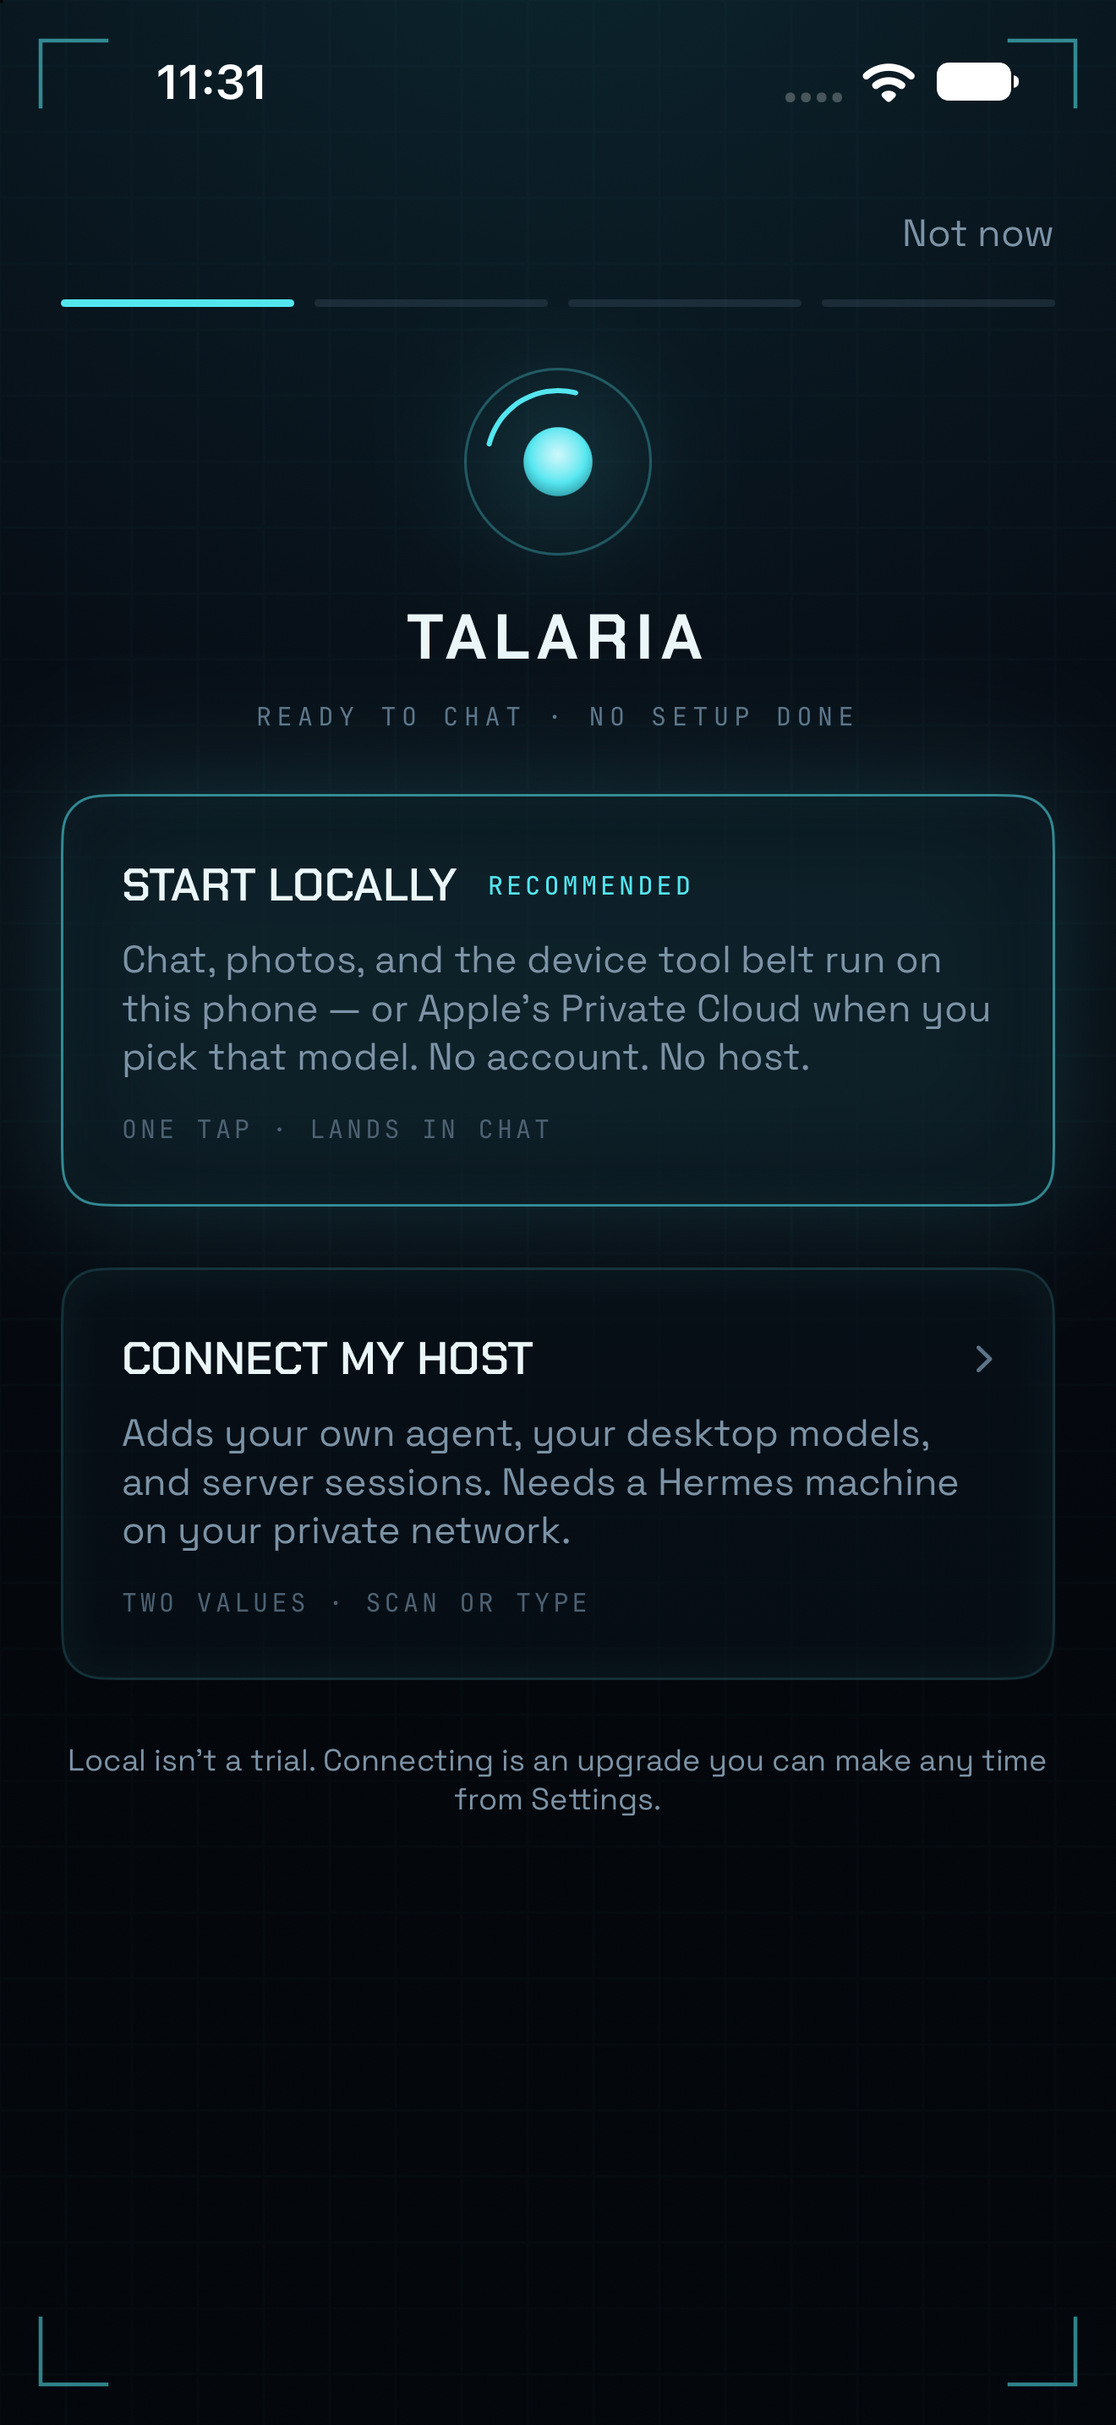
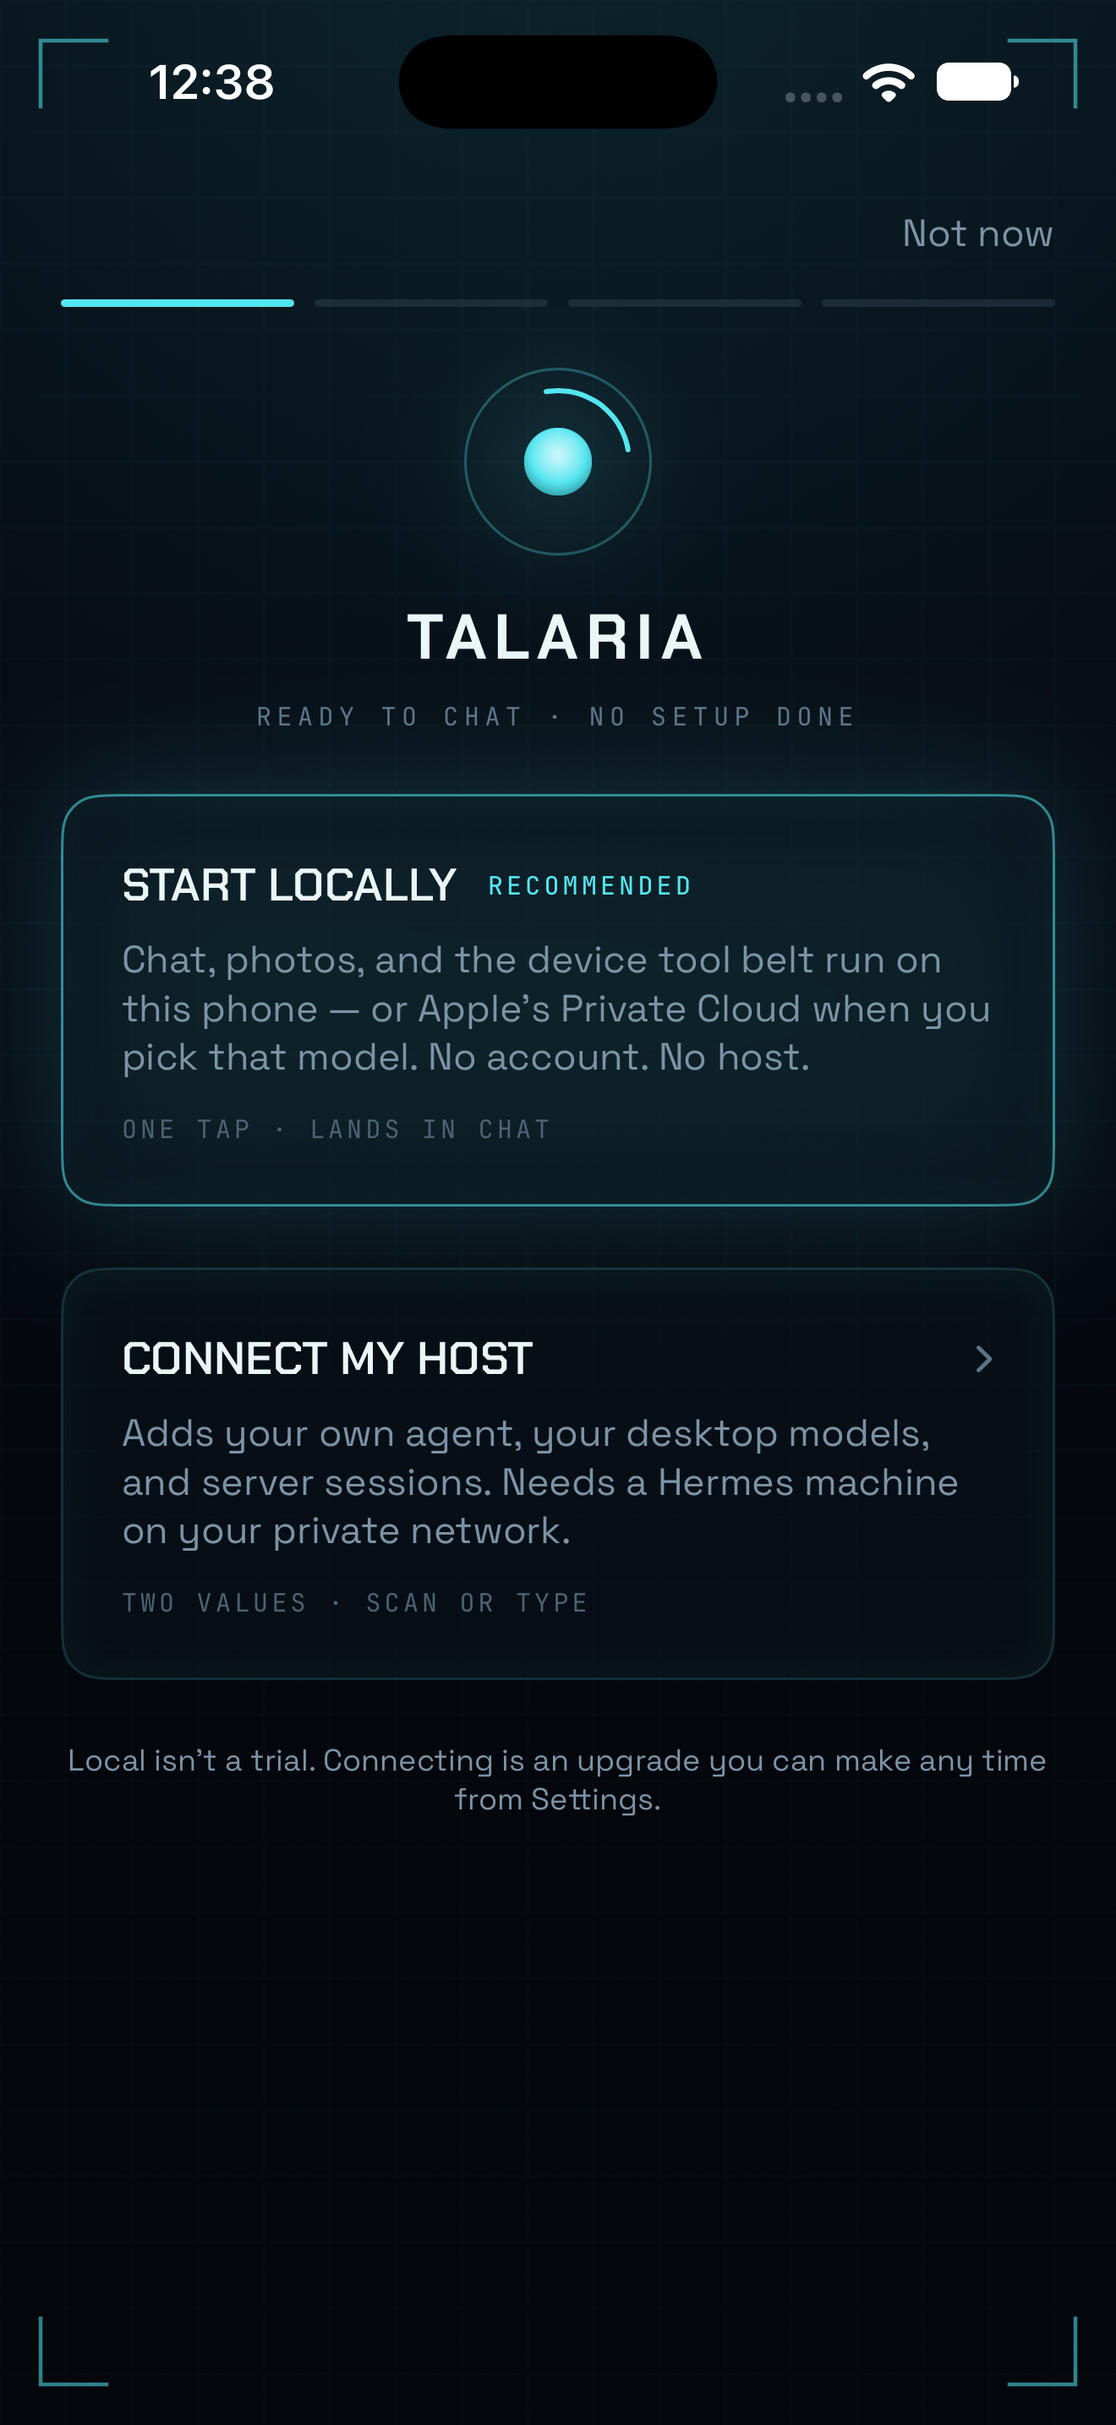
445: CLOSED — gate PASS (3430/281 + 18), PR #449 → 3ba4d00a, store build 3331 staged and verified, the three rulings seen on a fresh Release sim install; store frames re-captured; runbook repointed at 3331; 443 header pointer updated

diff --git a/OPEN_ITEMS.md b/OPEN_ITEMS.md
@@ -13803,7 +13803,7 @@ First-launch/license complete (`xcodebuild -checkFirstLaunchStatus` exit 0 — n
 
 > **✅ CLOSED 2026-09-10 (Owen, morning): *"it was tailscale again. It had crashed on the phone. restarted it and the plugin shows active for both servers again."*** So the symptom was the PHONE's tailnet, not either host: with Tailscale down, the About screen's Plugin Link row shows its `hostUnreachable` state (269-A-C's closed vocabulary — a distinct label, never "missing"), and it read as the plugin gone. Both gateways had the plugin loaded throughout (the probe block above). **Same cause as #425's 2026-09-04 confirmation** (*"Tailscale had crashed on the phone… brought every session back"*) — the second Tailscale-on-phone crash in six days to present as a Talaria fault. Nothing to fix in the app or on either host; the read-only diagnosis recipe above stays the first move whenever "the plugin is gone" is reported, and "is Tailscale up on the phone?" is now the first question before it. Not filed as an app item: the row already distinguishes unreachable from not-live. If a third occurrence wants a "Tailscale may be down" hint on that row, that is a UI-honesty lane in #425's family (the shelf that empties when the host is unreachable). Archive move rides the next sweep.
 
-## 443. 🚀 LAUNCH PREP — the 1.0 submission runbook, and the three ship-shape decisions Owen made the morning of 2026-09-10 (iPhone-only, no CarPlay scene, no pre-emptive review host) — **FILED 2026-09-10 the hour the decisions were made (#268). Apple's iOS 27 public launch is Monday 2026-09-14; that is Apple's date, not this project's deadline. Owen: "I am absolutely terrified about following through on this… I've put off doing anything really towards the launch" — so this entry is deliberately the whole list, split by who can do each line, and nothing here is irreversible before App Store Connect's Submit button, which is Owen's alone.** **⟵ 2026-09-10 midday: 443-A/B/C(agent half)/D/E(sim half)/F done; the store build to upload is 3328 (`f86f7901`, carries #444's fix), NOT the 3324 this entry's blocks name first — the runbook is the live pointer. OPEN on Owen's steps (R7 read, R9 support contact, R10–R11, Submit) and the three device frames.**
+## 443. 🚀 LAUNCH PREP — the 1.0 submission runbook, and the three ship-shape decisions Owen made the morning of 2026-09-10 (iPhone-only, no CarPlay scene, no pre-emptive review host) — **FILED 2026-09-10 the hour the decisions were made (#268). Apple's iOS 27 public launch is Monday 2026-09-14; that is Apple's date, not this project's deadline. Owen: "I am absolutely terrified about following through on this… I've put off doing anything really towards the launch" — so this entry is deliberately the whole list, split by who can do each line, and nothing here is irreversible before App Store Connect's Submit button, which is Owen's alone.** **⟵ 2026-09-10 midday: 443-A/B/C(agent half)/D/E(sim half)/F done; the store build to upload is 3331 (`3ba4d00a`, carries #444's fix and #445's three rulings; 3328 retired), NOT the 3324 this entry's blocks name first — the runbook is the live pointer. OPEN on Owen's steps (R7 read, R9 support contact, R10–R11, Submit) and the three device frames.**
 
 > **Owen's three rulings (2026-09-10, answering the plan's three questions verbatim):** (1) *"ship as iphone only. ipad for after launch"* — `TARGETED_DEVICE_FAMILY` goes to `"1"` on all three targets; #108's universal target (Lane J) is SUPERSEDED for 1.0 and returns as a post-launch lane (an iPad runs the iPhone build in compatibility mode meanwhile; the `~ipad` orientation/icon keys stay in place, inert, so the return is a one-line revert). (2) *"strip it for 1.0"* — the `CPTemplateApplicationSceneSessionRoleApplication` scene configuration comes out of the manifest; the entitlement was never requested (commented out in `project.yml` since #19), so the declaration was a promise the build could not keep; `Talaria/CarPlay/` stays compiled and unreachable until #74 restores the entry WITH the entitlement. (3) *"Nah, I think that having the local version of the on-device app will shine for a reviewer"* — no pre-emptive public review host (#166c); the on-device tier IS the review story. Guardrail attached: it shines only on an iPhone with Apple Intelligence ON, so the review notes lead with that requirement, the model-unavailable first-launch path gets verified on the sim (where the model is unavailable by design, #402), and the `tailscale funnel` recipe is written down for the on-request case only.
 
@@ -13854,7 +13854,7 @@ First-launch/license complete (`xcodebuild -checkFirstLaunchStatus` exit 0 — n
 
 > **✅ 444-D + 444-E MET (2026-09-10 11:25–11:32) — SHIPPED AND SEEN.** `testflight-stage.sh` on merged `main` → **`~/.talaria-ota/testflight/Talaria27-store-3328.ipa`** (main @ `f86f7901`, Release, distribution signing, `** ARCHIVE SUCCEEDED **` + `** EXPORT SUCCEEDED **`, Xcode-rc); verified inside the ipa: `UIDeviceFamily [1]`, scene configurations `{}`, `CFBundleVersion 3328`, `1.0.0`, both appexes. The 3324 and 3313 ipas are moved to `retired/` beside it so the only loose ipa in the folder is the one to upload; #443's runbook repointed. **Seen, not inferred:** a fresh RC-toolchain Release build of `f86f7901` on the same brand-new `CC-shots-17ProMax` sim, same hostless install — strip **`ON-DEVICE`** (muted pip), tile **`01 UPLINK · NOT LINKED`**, tile **`02 SERVER · NO HOST`**, the "Connect Hermes Desktop — UPGRADE" card now agreeing with the tiles beside it; the chat header unchanged (`TALARIA · READY`, ON-DEVICE pill). The three frames are #443-E's simulator set, landed as native 1320 × 2868 canvases in `planning/reports/2026-09-10-launch/screenshots/` (01 the Start-Locally / Connect-My-Host chooser — "Local isn't a trial" — which IS the review story in one screen; 02 the fresh-install chat; 03 the hostless Settings grid). **Two things the frames also show, filed as questions rather than fixed:** the Release build's Settings list carries a `09 DEVELOPER · PRODUCTION` row (the environment selector is production-only in Release, but the row itself is visible to a store user — intended, or DEBUG-only?), and the composer placeholder reads "Message Hermes…" on the on-device tier (inside the 2026-08-27 naming ruling's host-meaning list; Owen's to move). **444-F stands as the named residual. EVERY OTHER BAR DISCHARGED — CLOSED; archive move rides the next sweep.**
 
-## 445. ⚖ THREE LAUNCH RULINGS FROM THE SCREENSHOT PASS — Private Cloud offer-toggle OFF by default (feature intact), the Developer row DEBUG-ONLY, and the composer's "Message Hermes…" reframed to "Message Talaria…" — **RULED 2026-09-10 by Owen, verbatim: (1) "it can default to off. but leave the feature intact." (2) "Debug only" (3) "I thought we had gotten rid of the message hermes / ask hermes, etc and reframed it as ask talaria, etc." FILED the hour they were ruled (#268); one lane, RED-first, ships in the next store build.**
+## 445. ⚖ THREE LAUNCH RULINGS FROM THE SCREENSHOT PASS — Private Cloud offer-toggle OFF by default (feature intact), the Developer row DEBUG-ONLY, and the composer's "Message Hermes…" reframed to "Message Talaria…" — **RULED 2026-09-10 by Owen, verbatim: (1) "it can default to off. but leave the feature intact." (2) "Debug only" (3) "I thought we had gotten rid of the message hermes / ask hermes, etc and reframed it as ask talaria, etc." FILED the hour they were ruled (#268); one lane, RED-first, ships in the next store build.** **⟵ ✅ SHIPPED THE SAME HOUR: RED 2 issues → 91/91; gate PASS 3430/281 + 18 on 24A434; PR #449 → `3ba4d00a`; store build 3331 staged; all three rulings SEEN on a fresh Release sim install. CLOSED.**
 
 > **Where each came from:** #443/#444's screenshot pass on a fresh Release install — the `PRIVATE CLOUD · ON` tile beside a description that says nothing leaves the phone unless you say so; a `09 DEVELOPER · PRODUCTION` row visible to what would be a store user; and "Message Hermes…" under an ON-DEVICE pill. **On (3), the record:** #415-S (2026-08-26/27) renamed every app-meaning "Ask Hermes"/"Talk to Hermes"/"Hermes is thinking" surface to Talaria and deliberately KEPT "Message Hermes…" as host-meaning — CLAUDE.md's naming ruling lists it as its first example. Owen's reading today is that the composer is the app, whichever brain answers, so that example moves from the host-meaning list to the app-meaning list; CLAUDE.md's example is corrected in the same commit. Host-meaning strings ("Connect Hermes Desktop", "A Hermes gateway", "Hermes is unreachable — new messages run on-device until it recovers", the HERMES brain label) stay exactly where #415 left them; CarPlay's copy is fenced and stripped for 1.0 (#443).
 
@@ -13866,6 +13866,8 @@ First-launch/license complete (`xcodebuild -checkFirstLaunchStatus` exit 0 — n
 - **445-D (seen).** The fixed Release build on the shots sim: no Developer row (`08 SUBSYSTEMS` on a sim without the PCC tile), composer "Message Talaria…"; the PCC tile reads OFF where it exists (device-only — the sim has no tile, #402/#72). Frames re-captured for #443-E.
 - **445-E (close-out).** CLAUDE.md's naming ruling example corrected upstream (the "Message Hermes…" example moves lists, with the date and Owen's words); #415's archived entry gets an append-only pointer (#317(a)); the reviewer-notes/listing/App Privacy PCC sentences re-read against the new default.
 
+
+> **✅ 445-A..E MET (2026-09-10 12:0x–12:40) — CLOSED.** RED first over the four suites: 91 tests, **2 issues, exactly the two rows** (`NamingSweepTests:182` — the placeholder still present; `PrivateCloudOptOutTests:152` — the fresh default still true); the Developer-row row's RED was the compile failure of a parameter that did not exist. GREEN after the edits: 91/91. Branch gate: **GATE: PASS on 24A434, first run** — `TEST SUCCEEDED` · **3430 Swift Testing in 281 suites (259.7 s) + 18/18 XCUITest** · Release clean · skips = the CondenserFidelityTests pair; the count moved by exactly the two rows added. PR #449 squash-merged as **`3ba4d00a`**; `git diff ae61488e HEAD --stat` empty, both at tree `9129f81e…`. **Shipped:** `testflight-stage.sh` → **`Talaria27-store-3331.ipa`** (main @ `3ba4d00a`, Release, distribution, Xcode-rc; `UIDeviceFamily [1]`, scene configurations `{}`, 1.0.0, minOS 27.0, both appexes); 3328 retired beside 3324/3313; runbook repointed. **Seen (445-D):** a fresh RC-toolchain Release build of `3ba4d00a` on the shots sim, hostless — Settings `08 SUBSYSTEMS` with NO Developer row (the sim also has no PCC tile, #72/#402, so the PRIVATE CLOUD · OFF reading is device-only), strip `ON-DEVICE`, `UPLINK · NOT LINKED`, `SERVER · NO HOST`, composer **"Message Talaria…"**; the three #443-E store frames re-captured from this build and landed over the previous set. Close-out (445-E): CLAUDE.md's naming-ruling example moved lists with Owen's words and the date; #415 carries the dated pointer; the reviewer notes, listing and App Privacy drafts now say PCC is off on a fresh install until turned on in Settings → Private Cloud and chosen in Models.
 ## 446. 🔧 RE-POINT BOTH HOSTS' PLUGIN CHECKOUTS AT THE REWRITTEN PUBLIC HISTORY — `~/.hermes/plugins/talaria` on the Mac (at `b4e8dfa`, 0.8.0) and `%LOCALAPPDATA%\hermes\plugins\talaria` on OJAMD track a `main` that no longer exists upstream since #308's fresh-history publish (`b24fba0`, 2026-09-10) — **FILED 2026-09-10 the hour the rewrite landed (#268). NOT STARTED. A live-install touch on both hosts: per-experiment go, Owen's PowerShell on OJAMD, and #442's wire-prove afterwards.**
 
 > **Why it is a chore and not a fire:** the running gateways load the plugin from disk; nothing about the rewrite changes what is loaded until someone runs `git pull` in those directories — which would now fail (unrelated histories) rather than silently do the wrong thing. **What the chore is:** on each host, `git fetch origin && git reset --hard origin/main` (or a fresh clone into place), which also carries the plugin from 0.8.0 to the public root's 0.9.0 tree (the #263 PID-stamp commit is the only functional delta since the hosts' last pull) — so it doubles as the 0.9.0 deploy and rides the deploy brief in `HANDOFF-OJAMD-2026-08-22-PLUGIN-DEPLOY.md`: bounce the gateway (both hops on OJAMD, parent first), then the discriminator probe (`talk_readiness` ⇒ `device_auth_mismatch`, control ⇒ `unknown_event_type`) and `hermes plugins list` showing `talaria · enabled · 0.9.0`. **Bars pre-register when it opens.** Not before submission — the phone's plugin path works on 0.8.0 today (#442 measured it this morning).

diff --git a/planning/LAUNCH-RUNBOOK-1.0.md b/planning/LAUNCH-RUNBOOK-1.0.md
@@ -19,7 +19,7 @@ evidence.
 | R3 | Privacy policy, in-app notices, weather attribution published/shipped | ✅ #433 #434 #435 |
 | R4 | RC toolchain standard, gate green | ✅ #441 |
 | R5 | iPhone-only, no CarPlay scene (Owen's rulings) in the built product, tests pinned | ✅ 443-A/B — PR #447 → `94f5f62a`, gate PASS on 24A434 |
-| R6 | Store build exported under Xcode-RC from merged `main`, family + manifest verified inside the ipa | ✅ **`~/.talaria-ota/testflight/Talaria27-store-3328.ipa`** (main @ `f86f7901`, build 3328 — carries the #444 hostless-honesty fix; 3324/3313 moved to `retired/`); upload is Owen's |
+| R6 | Store build exported under Xcode-RC from merged `main`, family + manifest verified inside the ipa | ✅ **`~/.talaria-ota/testflight/Talaria27-store-3331.ipa`** (main @ `3ba4d00a`, build 3331 — carries #443 iPhone-only/no CarPlay, #444 hostless honesty, #445's three rulings; 3328/3324/3313 in `retired/`); upload is Owen's |
 | R7 | Reviewer notes v2 read by Owen; the "model unavailable" sentence grounded (code path + unit test — a sim cannot present the state, #402) | 🔄 443-D grounded 2026-09-10; Owen's read owed |
 | R8 | Listing copy decided; 6.9-inch screenshots captured | 🔄 443-E — listing DRAFTED (Owen decides); three simulator frames LANDED in `planning/reports/2026-09-10-launch/screenshots/` (chooser, fresh chat, hostless Settings — from the fixed Release build); the three on-device brain frames are Owen's phone, any evening (`compose-shots.py` pads them to 6.9-inch) |
 | R9 | Support contact on the Pages index | ⬜ (10-line `docs/index.html` change; `docs/` is live on merge) |
@@ -42,7 +42,7 @@ evidence.
 
 **Agent (this week, no device needed)**
 1. ✅ Merged #443's lane (PR #447 → `94f5f62a`); `main`'s tree proven identical to the gated branch tree (same tree hash), so the branch gate IS the `main` gate for this HEAD.
-2. ✅ `scripts/mac/testflight-stage.sh` under Xcode-RC → **`~/.talaria-ota/testflight/Talaria27-store-3328.ipa`** (main @ `f86f7901`, build 3328, 1.0.0, minOS 27.0 — includes the #444 fix: a hostless install no longer claims LINKED/CONNECTED on Settings); `UIDeviceFamily [1]` and the empty scene-configuration dict verified inside the ipa; both appexes present. The earlier 3324 (pre-#444) and 3313 (beta6, universal) ipas live in `retired/` — the one loose ipa in the folder is the one to upload.
+2. ✅ `scripts/mac/testflight-stage.sh` under Xcode-RC → **`~/.talaria-ota/testflight/Talaria27-store-3331.ipa`** (main @ `3ba4d00a`, build 3331, 1.0.0, minOS 27.0 — includes #444's hostless honesty and #445's three rulings: Private Cloud off on a fresh install, no Developer row in Release, "Message Talaria…"); `UIDeviceFamily [1]` and the empty scene-configuration dict verified inside the ipa; both appexes present. Earlier ipas (3328, 3324, 3313) live in `retired/` — the one loose ipa in the folder is the one to upload.
 3. ~~Verify the model-unavailable path on a simulator~~ — DONE differently (R7): a sim reports the model available and fails at generation (#402), so it cannot show the unavailable copy; the sentence in `reviewer-notes-v2.md` is grounded in `LocalChatBackend.unavailabilityMessage(for:)` and its unit test instead. Owen can see it live by switching Apple Intelligence off for thirty seconds; optional.
 4. Capture the five 6.9-inch screenshots on CC-lane-1 with the Mac host supplying chat content; land them in `planning/reports/2026-09-10-launch/screenshots/` (R8).
 5. Add a Support section with a contact address to `docs/index.html` (R9) — the address is Owen's to choose.
@@ -53,7 +53,7 @@ evidence.
 8. App Privacy → **Data Not Collected** → publish.
 9. App Information / Pricing: category Productivity, price Free, availability.
 10. Version 1.0.0 page: paste description, subtitle, keywords, promotional text, support + privacy URLs, screenshots; age rating questionnaire (expect 4+); App Review Information → paste the notes; contact phone/email; "sign-in required: No".
-11. **Upload** `~/.talaria-ota/testflight/Talaria27-store-3328.ipa` with Transporter (Mac App Store) signed in as the developer Apple ID. Wait for "processing" to finish (minutes to an hour). Select the build on the version page. Export compliance should not prompt (166d); if it does: exempt only.
+11. **Upload** `~/.talaria-ota/testflight/Talaria27-store-3331.ipa` with Transporter (Mac App Store) signed in as the developer Apple ID. Wait for "processing" to finish (minutes to an hour). Select the build on the version page. Export compliance should not prompt (166d); if it does: exempt only.
 12. TestFlight → internal testing → add yourself → install on `whoGoesThere` → ten minutes of real use: chat, Talk, a reminder, the Health widget, share a PDF. (R11)
 13. **Submit for Review.** Then close the laptop. Review typically answers within 24–48 h; a rejection is a message, not a verdict — it comes back here as a tracker item.
 
